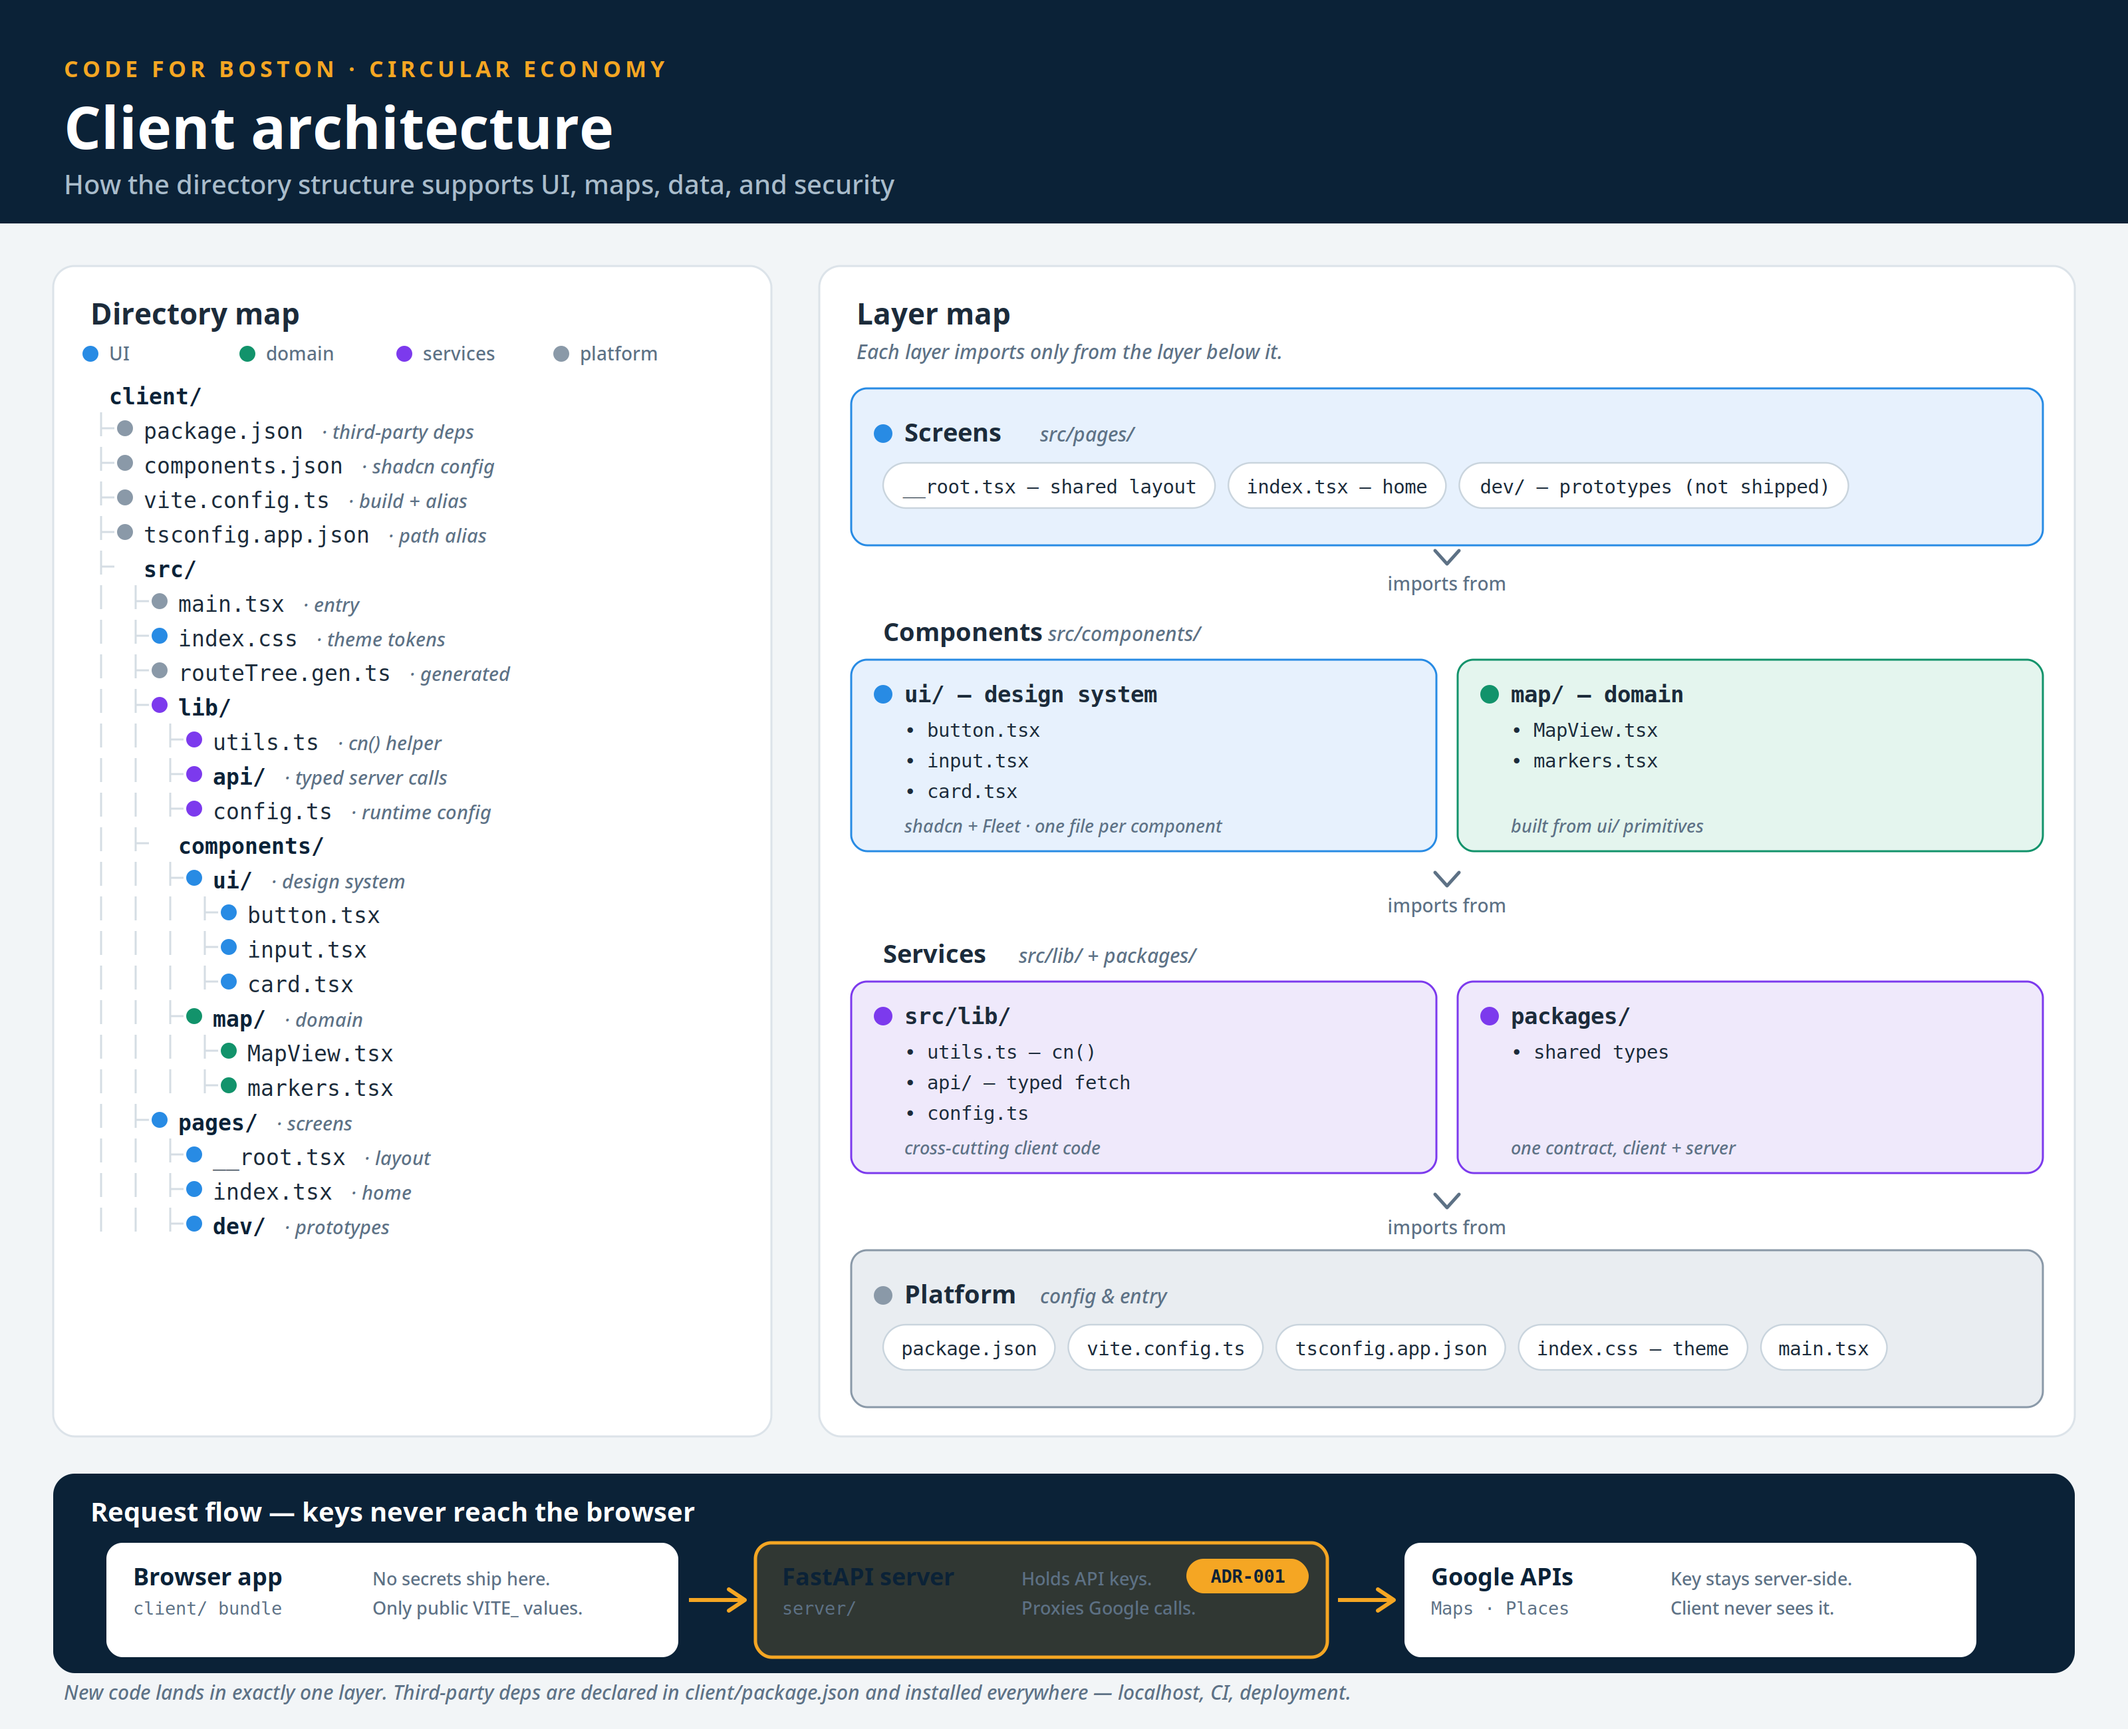
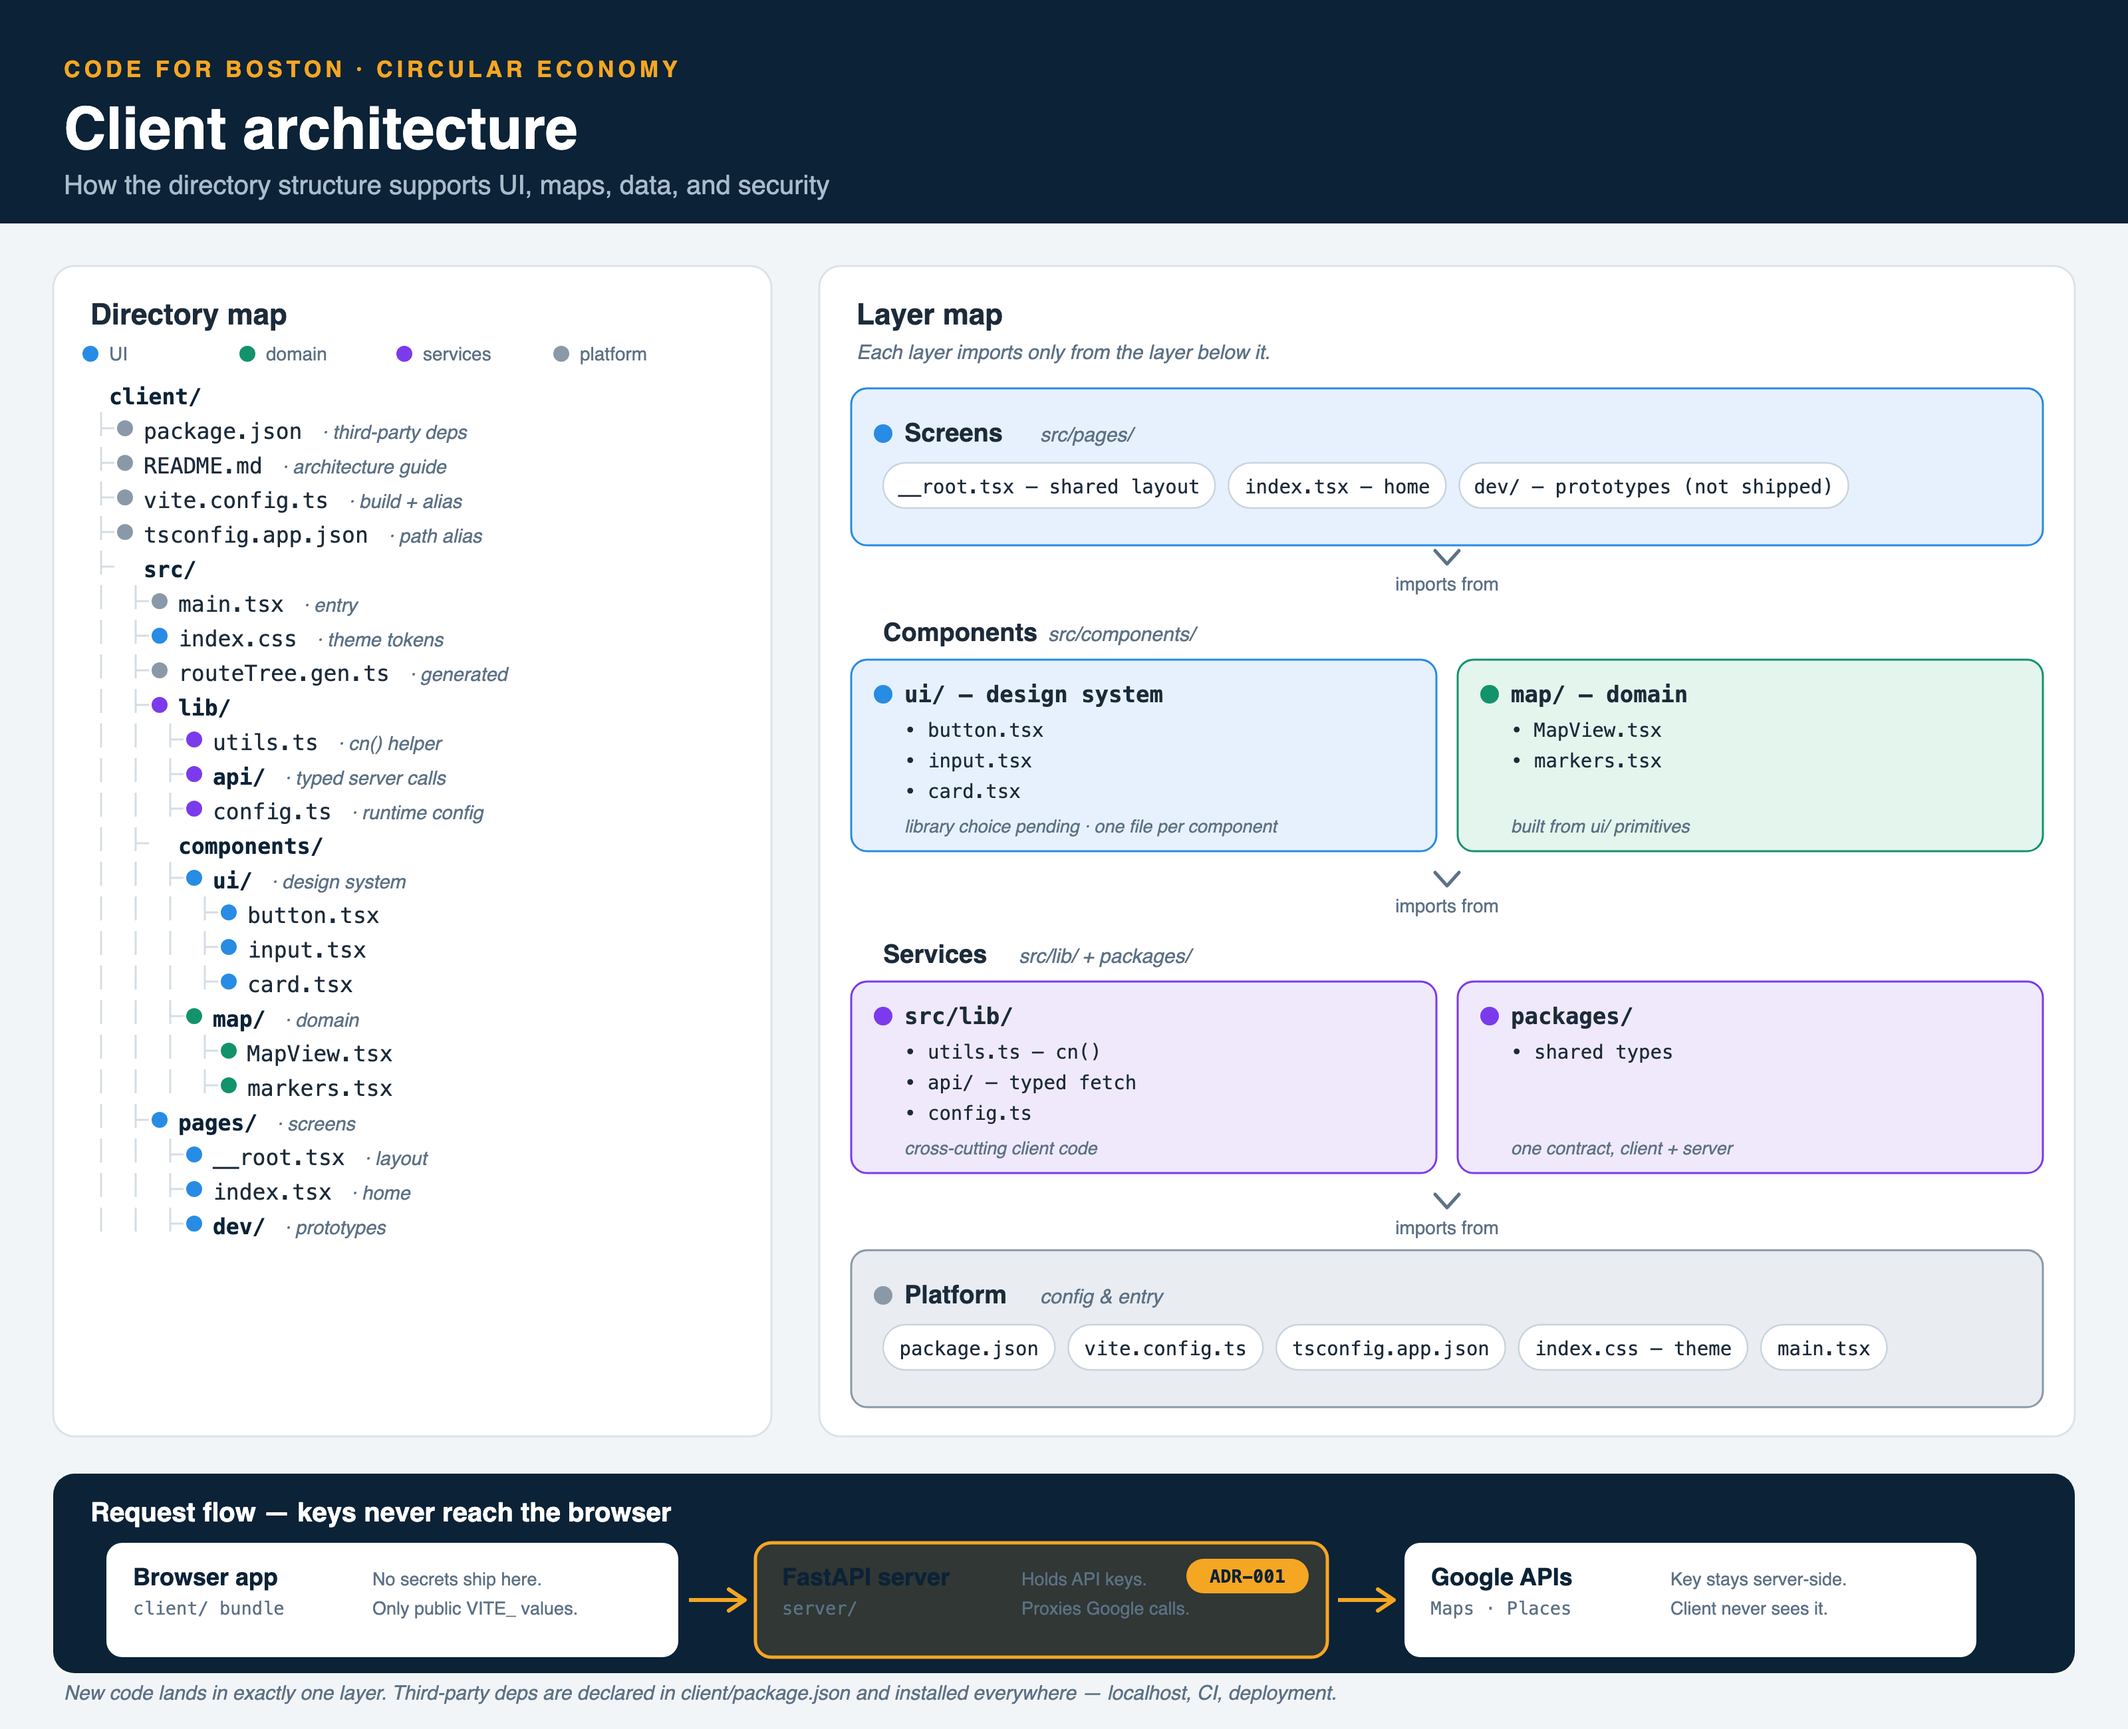
docs: consolidate client architecture guide

diff --git a/client/README.md b/client/README.md
@@ -1,4 +1,63 @@
+# Client
+
 Client-side application for the Boston Circular Economy project.
+
+## Architecture
+
+![Client architecture diagram](../docs/client-architecture.svg)
+
+The client is organized into four layers. Each layer imports only from the
+layer below it so new code has one clear home.
+
+### The four layers
+
+**Screens** — `src/pages/`. These are the app's routes. `__root.tsx` holds the
+shared layout, `index.tsx` is the home page, and `dev/` holds prototypes. See
+[Routes](#routes) for the routing conventions.
+
+**Components** — `src/components/`. Reusable presentation components belong in
+`ui/`; feature components belong in domain folders such as `map/`. Domain
+components should compose reusable UI components instead of duplicating them.
+
+**Services** — `src/lib/` and the repository's `packages/` directory.
+Cross-cutting client code such as typed API calls and runtime configuration
+belongs in `src/lib/`. Data contracts shared with the server belong in
+`packages/`.
+
+**Platform** — configuration and entry files. `package.json` declares
+third-party code, `vite.config.ts` configures the build, `tsconfig.app.json`
+configures TypeScript, `index.css` holds shared styles, and `main.tsx` starts
+the app.
+
+### Where new code goes
+
+- Add routes and route-only UI under `src/pages/`.
+- Add reusable presentation components under `src/components/ui/`.
+- Give each feature area a domain folder under `src/components/`, such as
+  `src/components/map/`.
+- Put shared client code and typed server calls under `src/lib/`.
+- Put data shapes shared with the server under `packages/`.
+
+Keep existing code in place unless a separate change deliberately moves it.
+New code should land in exactly one layer.
+
+### Dependencies
+
+Declare third-party code in `client/package.json` and commit the corresponding
+lockfile changes so local development, CI, and deployment install the same
+versions. Use `dependencies` for code required by the shipped app and
+`devDependencies` for build, lint, and development tools.
+
+The component library and design-system implementation have not been selected.
+Do not add library-specific setup or dependencies based on this architecture;
+update this guide after the project makes that decision.
+
+### Security
+
+API keys must never enter the browser bundle. The server holds private keys and
+proxies third-party API calls, while the client receives only public `VITE_`
+configuration. Keep authentication and request handling centralized under
+`src/lib/` so the security boundary stays easy to review.
 
 ## Routes
 
